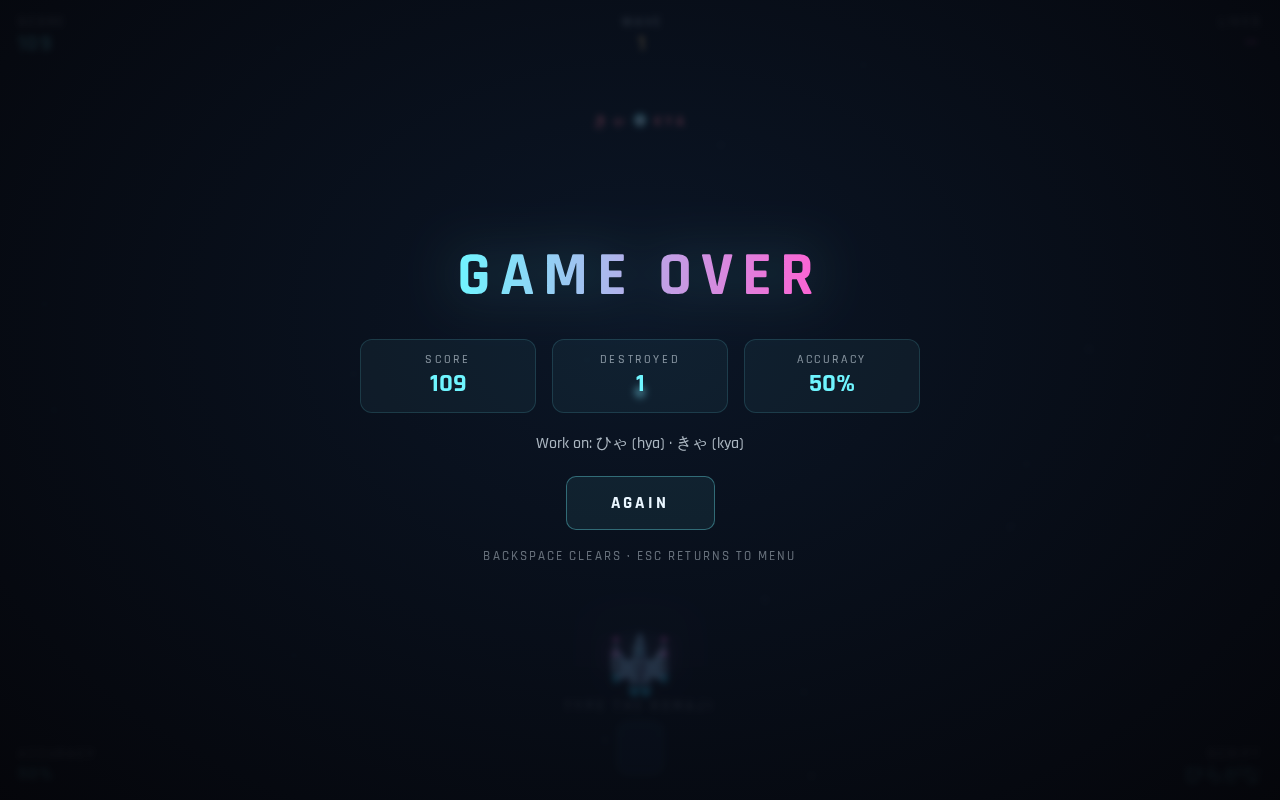
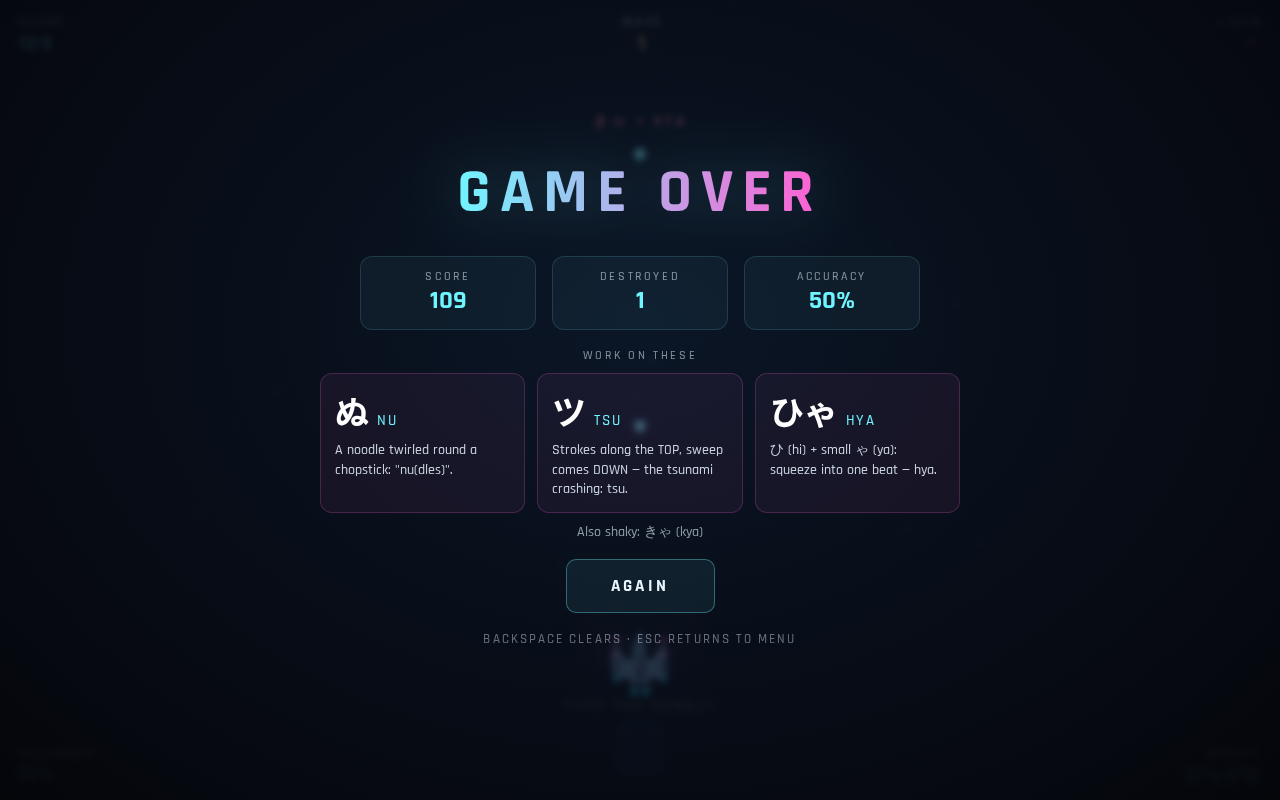
Show memory hooks for the most-missed kana on the game-over screen
The game-over screen only listed weak kana by name. It now shows the three
weakest as cards (glyph, romaji, mnemonic) with any others listed below.

Hooks are hand-written for the 46 basic hiragana and 46 katakana, including
which-way-the-strokes-go tips for the シ/ツ and ソ/ン look-alikes. Dakuten
entries are explained from their base kana ("か + ゛ two ticks: k → g", with
a note that ぢ/づ sound like じ/ず) and digraphs from their parts ("き + small
ゃ: squeeze into one beat"). Cards are built with textContent, no innerHTML.

Tests check all 208 kana have a hook, basic hooks are distinct, and the
cards render; the game-over staging seeds a basic hiragana and katakana miss
so the screenshot shows hand-written hooks too.

Claude-Session: https://claude.ai/code/session_019cpcKUdB5Yisp8d3dSsc5r

diff --git a/index.html b/index.html
@@ -112,6 +112,16 @@
     opacity:.55}
   .stats strong{font-size:26px;color:var(--cyan);font-weight:700}
   .hint{font-size:13px;opacity:.42;letter-spacing:.16em;text-transform:uppercase}
+  #oDetail{width:min(640px,92vw);display:flex;flex-direction:column;align-items:center;gap:10px}
+  .mnemoHead{font-size:12px;letter-spacing:.22em;text-transform:uppercase;opacity:.55}
+  .mnemos{display:grid;grid-template-columns:repeat(auto-fit,minmax(170px,1fr));gap:12px;width:100%}
+  .mnemo{background:rgba(255,95,210,.06);border:1px solid rgba(255,95,210,.22);
+    border-radius:12px;padding:12px 14px;text-align:left}
+  .mnemo b{font-size:34px;font-weight:700;color:#fff;margin-right:8px;
+    font-family:'Noto Sans JP','Hiragino Sans','Yu Gothic',Meiryo,sans-serif}
+  .mnemo span{font-size:15px;letter-spacing:.12em;text-transform:uppercase;color:var(--cyan)}
+  .mnemo p{margin:6px 0 0;font-size:14px;line-height:1.4;opacity:.85}
+  .mnemoRest{font-size:14px;opacity:.6}
 
   /* ---------- mobile on-screen keyboard ----------
      Shown only on coarse-pointer (touch) devices, only while a run is live.
@@ -209,7 +219,7 @@
     <div><span>Destroyed</span><strong id="oKills">0</strong></div>
     <div><span>Accuracy</span><strong id="oAcc">0%</strong></div>
   </div>
-  <p id="oDetail"></p>
+  <div id="oDetail"></div>
   <button class="big" id="againBtn">Again</button>
   <div class="hint">Backspace clears · Esc returns to menu</div>
 </div>
@@ -376,6 +386,129 @@ if (ROMAJI.length !== HIRAGANA.length || ROMAJI.length !== KATAKANA.length)
 // digraphs (きゃ, しゃ …). A difficulty level is just a prefix cutoff.
 const DIFFICULTY_CUTOFF = [46, 71, 104];
 const DIFFICULTY_NAME = ['Basic kana', '+ Dakuten / handakuten (゛゜)', '+ Combined kana (きゃ, しゃ …)'];
+
+// Memory hooks shown on the game-over screen for the kana you keep missing.
+// Only the 46 basic shapes need a hand-written hook per script; dakuten and
+// digraph entries are explained in terms of the basic kana they're built from.
+const MNEMO_H = [
+  'A cross with a swirl looping round it — "Ah!", it got tangled.',
+  'Two eels swimming side by side: "ee".',
+  'Someone doubled over from a punch to the gut: "oof" — u.',
+  'A dancer with a feather on her head, one leg kicked out: "eh!"',
+  'Like あ, but a spark flies off the top right: "Oh!"',
+  'A karate chop with a spark beside it: "Ka!"',
+  'A key — two teeth cut across the shaft, loop at the bottom.',
+  'An open bird beak going "coo".',
+  'A keg on its stand: the post on the left holds it up — "ke".',
+  'Two short coils lying flat: "co-il" — ko.',
+  'A saw blade cutting down through a curve: "sa(w)".',
+  'A single fishhook, like a long strand of hair on "she".',
+  'A rope hanging from a beam with a loop to sit in: a "swing" — su.',
+  'A mouth saying "say cheese" with one big fang hanging down.',
+  'A zig-zag of thread being sewn: "so(w)".',
+  'The letters t and a squashed together: "ta".',
+  'A cheerleader: arms crossed up top, big round belly — "chee(r)".',
+  'A tsunami wave curling over: "tsu".',
+  'A hand reaching out — te (手) is "hand".',
+  'A thorn stuck in a toe: "to(e)".',
+  'A cross next to a knot: "na" — knot.',
+  'A knee bent beside two lines: "knee" — ni.',
+  'A noodle twirled round a chopstick: "nu(dles)".',
+  'A cat (neko) curled up, tail looping at the end: "ne".',
+  'One sweeping stroke — a "no entry" swirl: no.',
+  'A tall post next to a laughing loop: "Ha!"',
+  'A big grin: "hee hee".',
+  'Mount Fuji with drops of snow melting at its sides: "fu".',
+  'A small hill: "heh, that\'s no mountain".',
+  'Like は with an extra bar — a chimney on the "ho(me)".',
+  'A cross with a long necklace looping below: "ma(ma)".',
+  'Looks like the number 21: "me" turning twenty-one.',
+  'A cow with a loop for a tail: "moo".',
+  'An eye — me (目) means "eye".',
+  'A fishhook with two bars catching "mo(re)" fish.',
+  'A yak with a horn sticking out: "ya(k)".',
+  'A fish swimming through a U-turn: "yu".',
+  'A yo-yo dangling from its string: "yo".',
+  'A rabbit sitting up, one ear raised: "ra(bbit)".',
+  'Two reeds standing by a river: "ri(ver)".',
+  'A road that curls into a loop at the end: "ru".',
+  'A man kneeling, leg kicked out to the right: "re".',
+  'Like る but the road just ends — no loop: "ro(ad)".',
+  'A man waving with a curved arm: "wa(ve)".',
+  'A rider on a bike shouting "whoa": wo.',
+  'A cursive lowercase n.',
+];
+const MNEMO_K = [
+  'An axe: a flat top with the blade swinging down — "a(xe)".',
+  'A person leaning on a stick: "ee".',
+  'う with a roof on top — "oo", a little hut.',
+  'An I-beam in an "e(levator)" shaft.',
+  'An opera singer with arms flung out: "Oh!"',
+  'Like か without its spark — a bare karate chop: "ka".',
+  'A key with two teeth: "ki".',
+  'A bird\'s beak going "coo": ku.',
+  'A tilted K: "ke".',
+  'A square corner: "co(rner)".',
+  'Two posts holding up a bar — a saw-horse: "sa".',
+  'Smiling up: strokes stack on the LEFT and the sweep rises UP — shi.',
+  'A swing seat hanging from its rope: "su".',
+  'Like せ, made angular: "se".',
+  'One tick, then a stroke falling DOWN from the top — "so", sewing down.',
+  'Like ク with a bar across its middle: "ta(co)".',
+  'A cheerleader with arms up and a pom-pom: "chi".',
+  'Strokes along the TOP, sweep comes DOWN — the tsunami crashing: tsu.',
+  'A telephone pole: "te(lephone)".',
+  'A post with a toe sticking out: "to(e)".',
+  'A cross with a knife-like leg: "na" — knife.',
+  'Two lines — ni (二) is "two".',
+  'Chopsticks lifting a noodle: "nu".',
+  'A necklace with a pendant: "ne(cklace)".',
+  'A single slash: "No!"',
+  'Two strokes spreading like a laugh: "ha".',
+  'A heel with a hook: "hee(l)".',
+  'The edge of Mount Fuji: "fu".',
+  'A hill — same as へ: he.',
+  'A holy cross with two legs: "ho(ly)".',
+  'A mama\'s apron string: "ma".',
+  'Three lines: "mi" — think "three mice".',
+  'A cow\'s nose: "moo".',
+  'An X marking a mess: "me(ss)".',
+  'Like も with straight lines: "mo(re)".',
+  'A yak\'s horn again, angular: "ya".',
+  'A U-turn on its side: "yu".',
+  'A backwards E — "yo", like a yo-yo trick.',
+  'A radio antenna on a box: "ra(dio)".',
+  'Like り — reeds by the river: "ri".',
+  'Two legs, one kicked out: "ru(n)".',
+  'A check mark: "re", ready.',
+  'A box — a robot\'s head: "ro(bot)".',
+  'A wine glass seen from the side: "wa".',
+  'ワ with an extra bar: "wo".',
+  'Like ソ, but the last stroke rises UP from the bottom — n.',
+];
+const DAKUTEN_ROWS = [
+  { base: 5,  mark: '゛', sound: 'k → g' },
+  { base: 10, mark: '゛', sound: 's → z' },
+  { base: 15, mark: '゛', sound: 't → d' },
+  { base: 25, mark: '゛', sound: 'h → b' },
+  { base: 25, mark: '゜', sound: 'h → p' },
+];
+const DIGRAPH_BASE = [6, 11, 16, 21, 26, 31, 39, 47, 52, 62, 67];
+function mnemonic(key){
+  const script = key[0], idx = parseInt(key.slice(1), 10);
+  const glyphs = script === 'h' ? HIRAGANA : KATAKANA;
+  if (idx < 46) return (script === 'h' ? MNEMO_H : MNEMO_K)[idx];
+  if (idx < 71){
+    const o = idx - 46, row = DAKUTEN_ROWS[Math.floor(o / 5)], b = row.base + o % 5;
+    const markName = row.mark === '゜' ? 'little circle' : 'two ticks';
+    let tip = `${glyphs[b]} (${ROMAJI[b]}) + ${row.mark} ${markName}: ${row.sound}.`;
+    if (idx === 57 || idx === 58) tip += ` Rare — sounds just like ${glyphs[idx - 5]}.`;
+    return tip;
+  }
+  const o = idx - 71, b = DIGRAPH_BASE[Math.floor(o / 3)], c = o % 3;
+  const small = (script === 'h' ? 'ゃゅょ' : 'ャュョ')[c];
+  return `${glyphs[b]} (${ROMAJI[b]}) + small ${small} (${['ya', 'yu', 'yo'][c]}): squeeze into one beat — ${ROMAJI[idx]}.`;
+}
 
 function buildPool(mode, difficulty = 3){
   const cutoff = DIFFICULTY_CUTOFF[difficulty - 1];
@@ -1276,14 +1409,39 @@ function gameOver(){
     .map(([k, v]) => {
       const idx = parseInt(k.slice(1), 10);
       const glyph = k[0] === 'h' ? HIRAGANA[idx] : KATAKANA[idx];
-      return { glyph, romaji: ROMAJI[idx], ratio: v.miss / (v.seen + v.miss), miss: v.miss };
+      return { key: k, glyph, romaji: ROMAJI[idx], ratio: v.miss / (v.seen + v.miss), miss: v.miss };
     })
     .sort((a, b) => (b.ratio * b.miss) - (a.ratio * a.miss))
     .slice(0, 6);
 
-  el('oDetail').textContent = weak.length
-    ? 'Work on: ' + weak.map(w => `${w.glyph} (${w.romaji})`).join('  ·  ')
-    : 'Clean run — nothing worth re-drilling.';
+  const box = el('oDetail');
+  box.replaceChildren();
+  if (!weak.length){
+    box.textContent = 'Clean run — nothing worth re-drilling.';
+  } else {
+    const head = document.createElement('div');
+    head.className = 'mnemoHead';
+    head.textContent = 'Work on these';
+    const cards = document.createElement('div');
+    cards.className = 'mnemos';
+    for (const w of weak.slice(0, 3)){
+      const card = document.createElement('div');
+      card.className = 'mnemo';
+      const g = document.createElement('b'); g.textContent = w.glyph;
+      const r = document.createElement('span'); r.textContent = w.romaji;
+      const tip = document.createElement('p'); tip.textContent = mnemonic(w.key);
+      card.append(g, r, tip);
+      cards.append(card);
+    }
+    box.append(head, cards);
+    const rest = weak.slice(3);
+    if (rest.length){
+      const more = document.createElement('div');
+      more.className = 'mnemoRest';
+      more.textContent = 'Also shaky: ' + rest.map(w => `${w.glyph} (${w.romaji})`).join('  ·  ');
+      box.append(more);
+    }
+  }
 
   el('overScreen').classList.remove('hidden');
   syncMobileUI();
@@ -1671,7 +1829,7 @@ window.KanaShmup = {
   // Deterministic spawn, used by the test suite to exercise every romaji
   // without waiting on the wave timer.
   spawn: (entry, kind) => { spawnEnemy(entry, 0, kind); return enemies[enemies.length - 1]; },
-  woundEnemy, useBomb, syncBombBadge,   // exposed so tests can drive these without waiting on auto-fire/streaks
+  mnemonic, woundEnemy, useBomb, syncBombBadge,   // exposed so tests can drive these without waiting on auto-fire/streaks
   kanaTexture,   // so the tests can measure whether a glyph fits its canvas
 };
 </script>
